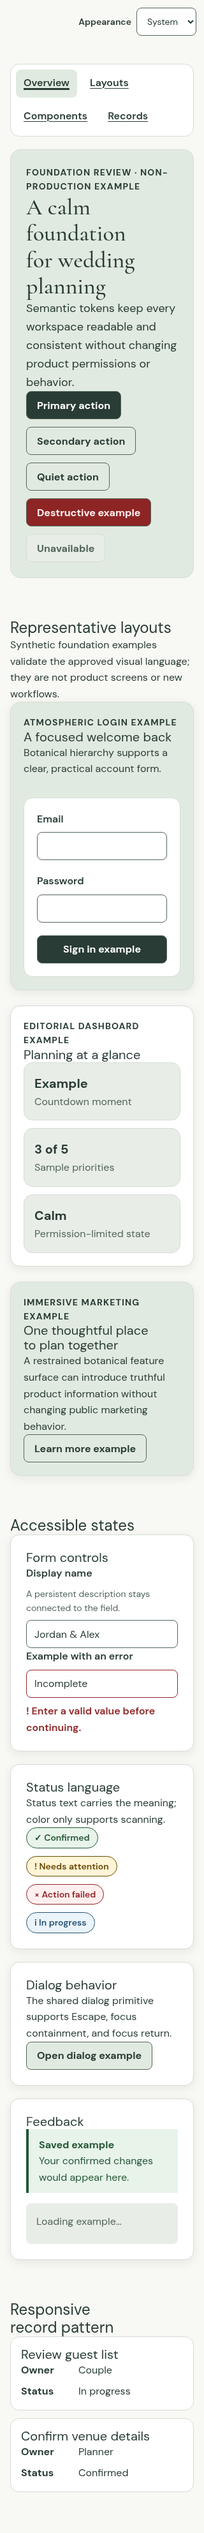
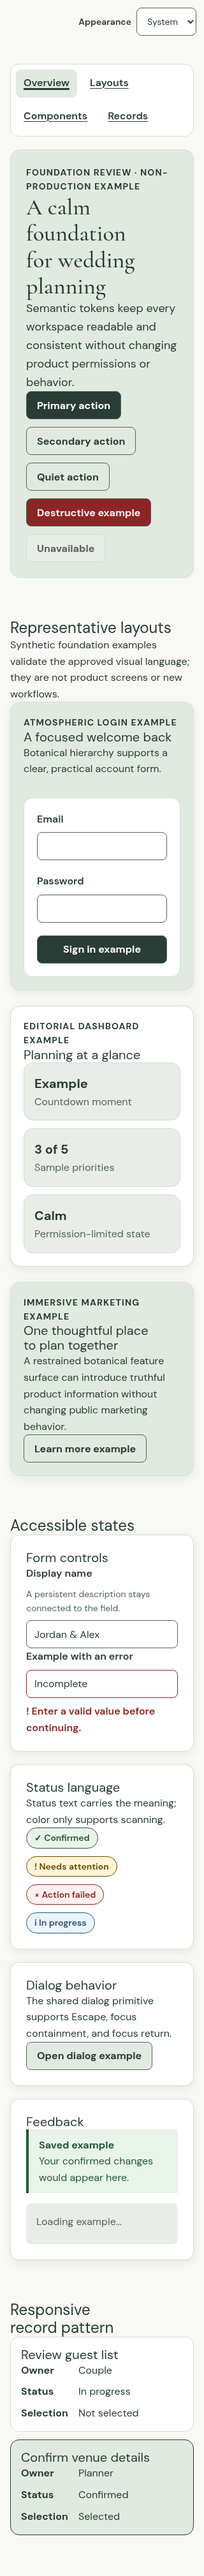
fix(05-a): preserve mobile selection state

Changed region(s): [[0.0312, 0.0312, 0.9688, 0.9995], [0.875, 0.4685, 0.9062, 0.4997], [0.8438, 0.6247, 0.875, 0.6559]]

diff --git a/apps/web/tests/foundation.spec.ts b/apps/web/tests/foundation.spec.ts
@@ -197,12 +197,37 @@ test.describe("semantic theme foundation", () => {
     await page.setViewportSize({ width: 320, height: 720 });
     await page.goto("/design-system");
     const desktopRecords = await page
-      .locator('table tbody th[scope="row"]')
-      .allTextContents();
+      .locator("table tbody tr")
+      .evaluateAll((rows) =>
+        rows.map((row) => ({
+          title: row.querySelector('th[scope="row"]')?.textContent?.trim(),
+          owner: row.querySelector("td:nth-of-type(1)")?.textContent?.trim(),
+          status: row.querySelector("td:nth-of-type(2)")?.textContent?.trim(),
+          selection:
+            row.getAttribute("aria-selected") === "true"
+              ? "Selected"
+              : "Not selected",
+        })),
+      );
     const mobileRecords = await page
       .getByRole("list", { name: "Mobile task examples" })
-      .getByRole("heading")
-      .allTextContents();
+      .getByRole("listitem")
+      .evaluateAll((records) =>
+        records.map((record) => {
+          const facts = Object.fromEntries(
+            Array.from(record.querySelectorAll("dl > div")).map((fact) => [
+              fact.querySelector("dt")?.textContent?.trim(),
+              fact.querySelector("dd")?.textContent?.trim(),
+            ]),
+          );
+          return {
+            title: record.querySelector("h3")?.textContent?.trim(),
+            owner: facts.Owner,
+            status: facts.Status,
+            selection: facts.Selection,
+          };
+        }),
+      );
     expect(mobileRecords).toEqual(desktopRecords);
     await page
       .getByRole("button", { name: "Secondary action" })

diff --git a/apps/web/app/design-system/page.tsx b/apps/web/app/design-system/page.tsx
@@ -218,7 +218,7 @@ export default function DesignSystemPage() {
             return (
               <article
                 aria-labelledby={headingId}
-                className="mobile-record"
+                className={`mobile-record${record.selected ? " mobile-record--selected" : ""}`}
                 key={record.title}
                 role="listitem"
               >
@@ -231,6 +231,10 @@ export default function DesignSystemPage() {
                   <div>
                     <dt>Status</dt>
                     <dd>{record.status}</dd>
+                  </div>
+                  <div>
+                    <dt>Selection</dt>
+                    <dd>{record.selected ? "Selected" : "Not selected"}</dd>
                   </div>
                 </dl>
               </article>

diff --git a/apps/web/app/globals.css b/apps/web/app/globals.css
@@ -613,6 +613,11 @@ tr[aria-selected="true"] {
   padding: var(--space-4);
   background: var(--card);
 }
+.mobile-record--selected {
+  border-color: var(--selected-foreground);
+  background: var(--selected);
+  color: var(--selected-foreground);
+}
 .mobile-record dl,
 .mobile-record dl div {
   display: grid;

diff --git a/docs/steps/05-a.md b/docs/steps/05-a.md
@@ -40,5 +40,5 @@ Other milestone features, speculative product behavior, unapproved infrastructur
 **Files / PR / commit:** `feat/05-a-semantic-tokens-themes`; implementation `c8ef1f8`; [PR #35](https://github.com/WardDufraing/Vowora/pull/35); [foundation handoff](../implementation/05-a-design-foundation.md).
 **Product decisions implemented:** ARCH-015/033/040; UI-001–035 and FINAL-001–004 traced in the handoff, with the implementation focused on the semantic foundation.
 **Tests and results:** Formatting, lint, types, 207 unit/component tests, four tooling tests, 13 boundaries, uncached builds, 11 web browser checks and 26 marketing regressions pass.
-**Review outcome:** Initial findings are corrected. Fresh re-review found one mobile table/card equivalence gap; all synthetic records now render from shared data in both representations with parity coverage. Final fresh review pending.
+**Review outcome:** Initial findings are corrected. Successive fresh reviews found missing mobile rows and selected-record state; both representations now use shared data and parity coverage compares title, owner, status and selection. Final fresh review pending.
 **Known limitations / next dependency:** This is the foundation gate, not feature-screen or release sign-off. 05-b waits for independent review and owner merge.

diff --git a/docs/implementation/05-a-design-foundation.md b/docs/implementation/05-a-design-foundation.md
@@ -118,4 +118,13 @@ findings were resolved and found one material mobile-equivalence gap: the
 two-row desktop example had only one mobile card. Both representations now map
 the same shared synthetic records, preserve every displayed field, expose a
 named semantic mobile list and have a narrow-browser parity regression. The
-mobile screenshot is updated. Final fresh re-review is pending.
+mobile screenshot is updated.
+
+The next fresh reviewer `/root/implement_05_a/final_review_05_a` confirmed the
+missing row was fixed and found that the mobile representation still omitted
+the shared selected-record fact. The corrected mobile cards now render visible
+`Selected` or `Not selected` text from that same fact, use semantic selected
+tokens as a supporting visual treatment and retain title, owner and status.
+The narrow-browser regression compares all four facts for every record, and
+the committed mobile screenshot reflects the correction. Another fresh final
+re-review is pending.
